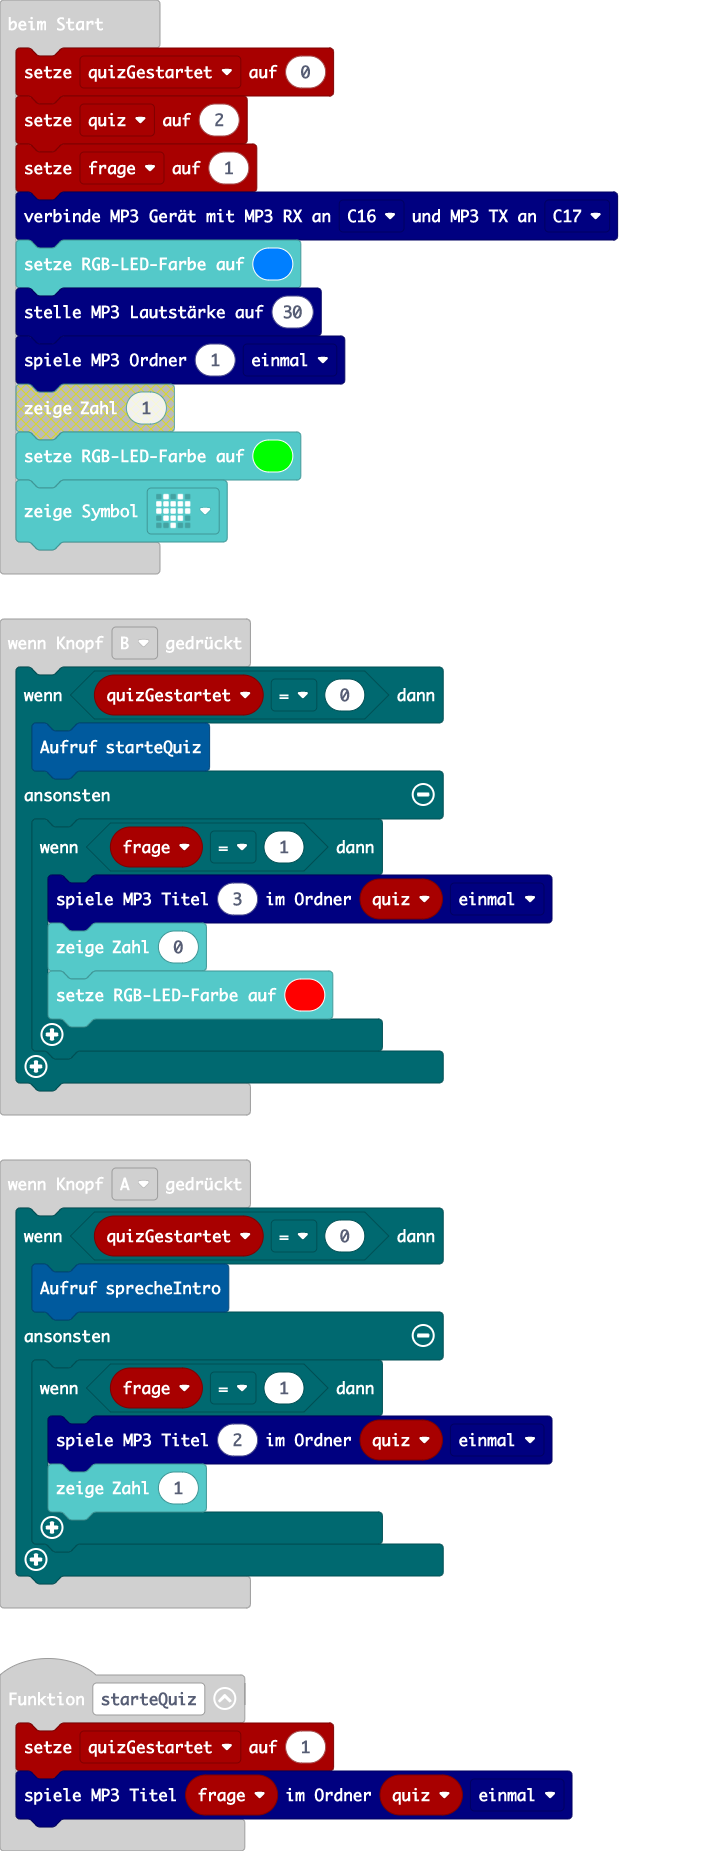
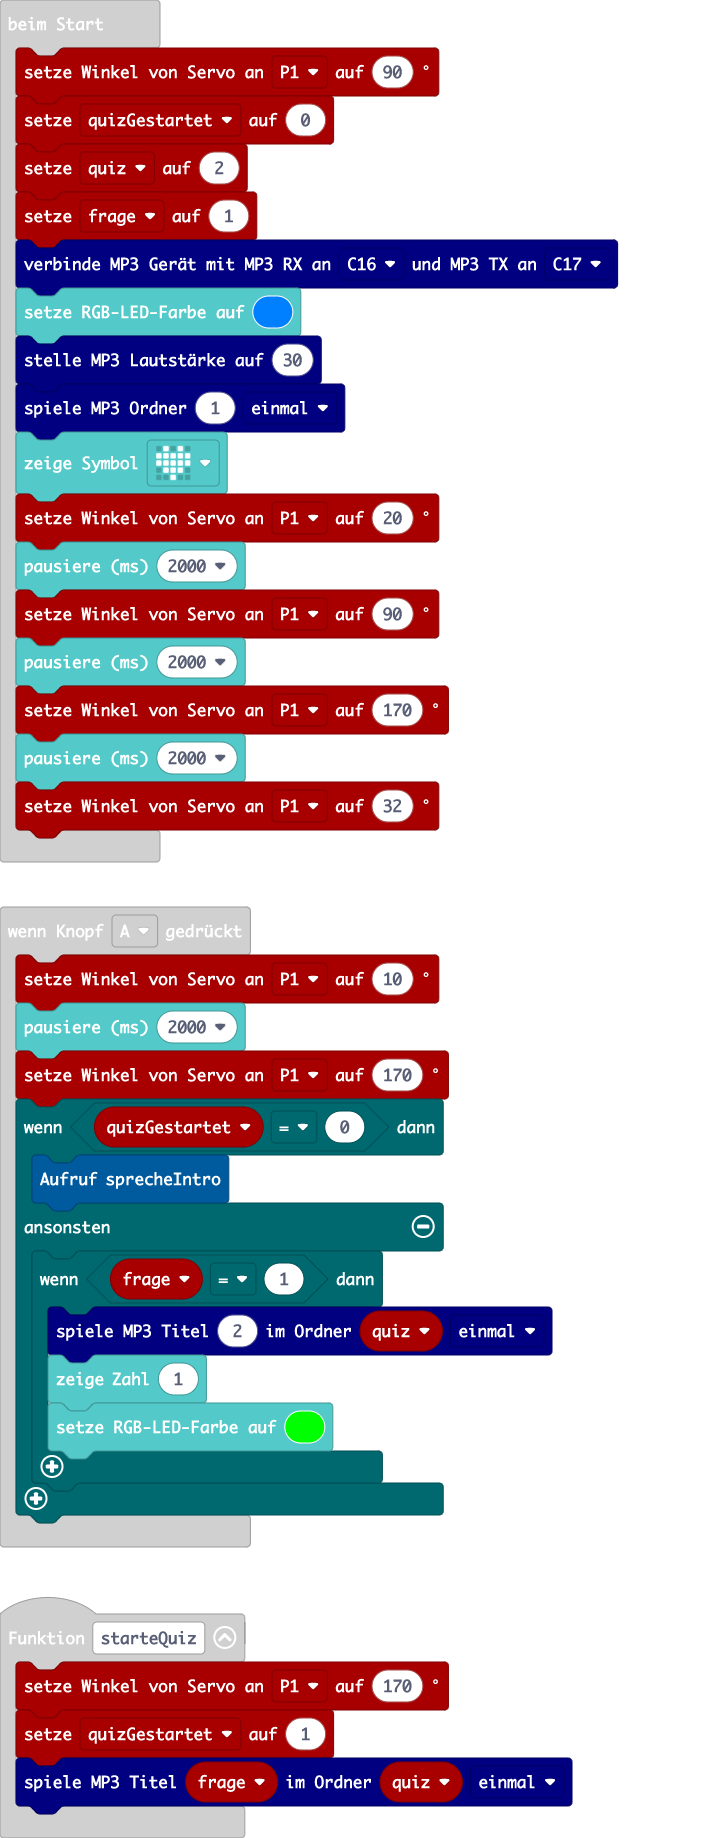
Aktualisiere main.blocks, main.ts

diff --git a/main.ts b/main.ts
@@ -1,8 +1,12 @@
 function starteQuiz () {
+    pins.servoWritePin(AnalogPin.P1, 170)
     quizGestartet = 1
     serialmp3.playMp3TrackFromFolder(frage, quiz, Mp3Repeat.No)
 }
 input.onButtonPressed(Button.A, function () {
+    pins.servoWritePin(AnalogPin.P1, 10)
+    basic.pause(2000)
+    pins.servoWritePin(AnalogPin.P1, 170)
     if (quizGestartet == 0) {
         sprecheIntro()
     } else {
@@ -30,6 +34,7 @@ input.onButtonPressed(Button.B, function () {
 let frage = 0
 let quiz = 0
 let quizGestartet = 0
+pins.servoWritePin(AnalogPin.P1, 90)
 quizGestartet = 0
 quiz = 2
 frage = 1
@@ -38,3 +43,10 @@ basic.setLedColor(0x007fff)
 serialmp3.setMp3Volume(30)
 serialmp3.playMp3Folder(1, Mp3Repeat.No)
 basic.showIcon(IconNames.Heart)
+pins.servoWritePin(AnalogPin.P1, 20)
+basic.pause(2000)
+pins.servoWritePin(AnalogPin.P1, 90)
+basic.pause(2000)
+pins.servoWritePin(AnalogPin.P1, 170)
+basic.pause(2000)
+pins.servoWritePin(AnalogPin.P1, 32)
